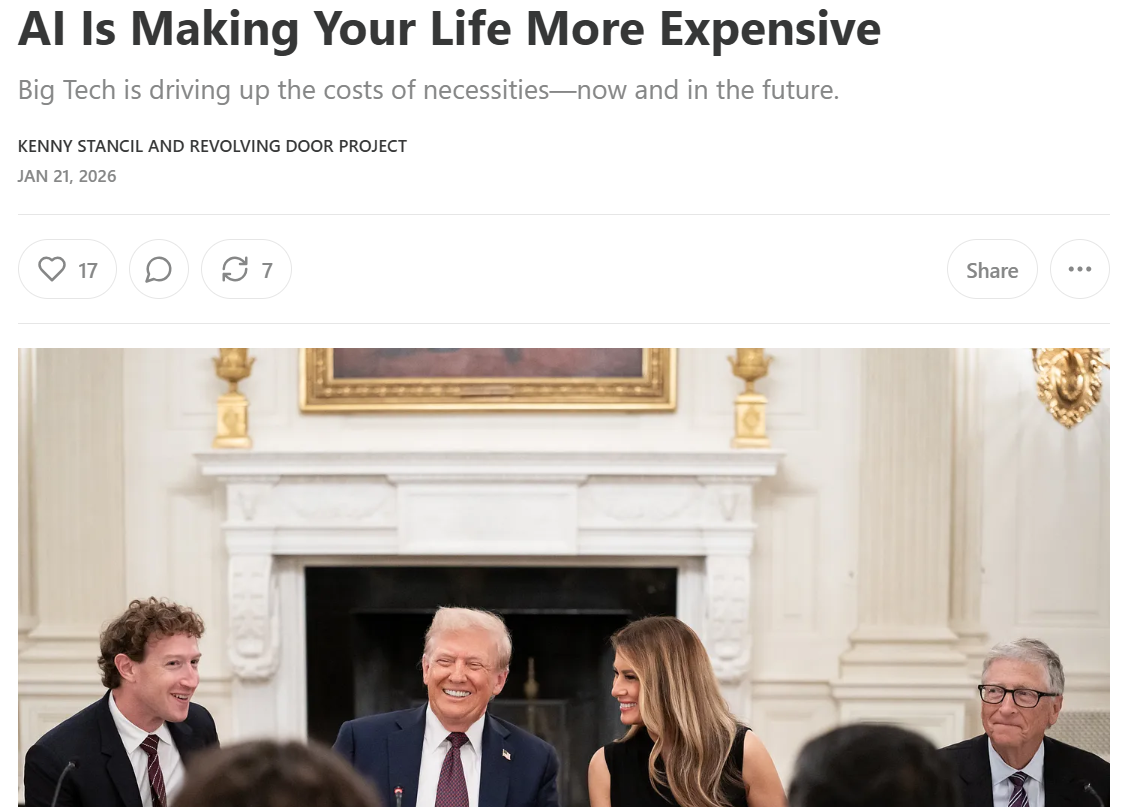
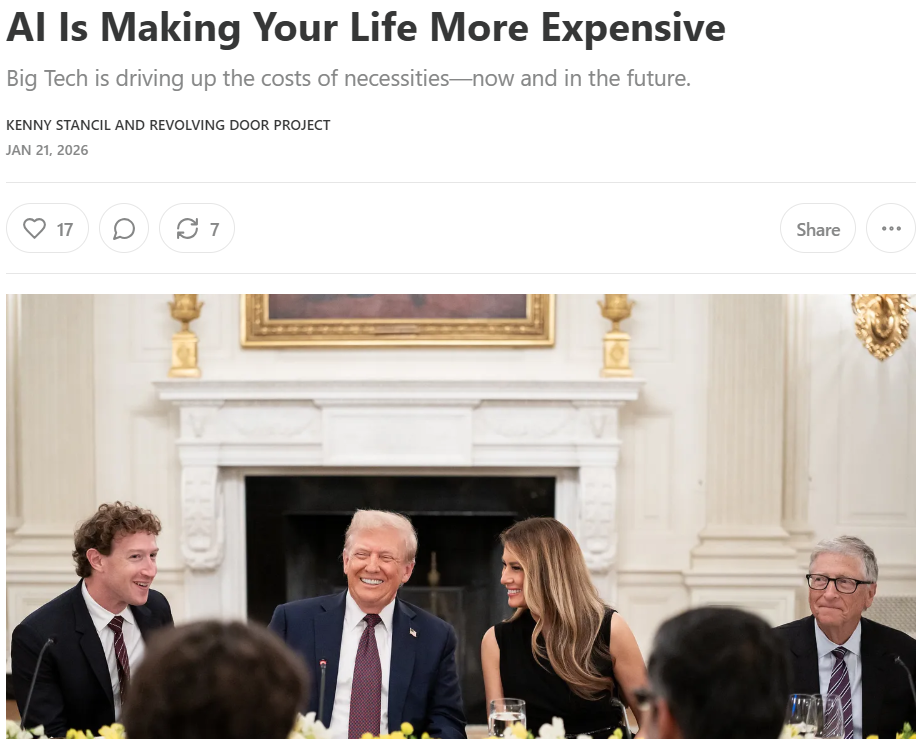
added one article

diff --git a/index.html b/index.html
@@ -393,6 +393,43 @@
               <a href="#" data-bs-toggle="modal" data-bs-target="#proj7"
                 ><img
                   class="card-img-top fit-image"
+                  src="images/tap-2-5-26.PNG"
+                  alt=""
+              /></a>
+              <div class="card-body">
+                <h4 class="card-title">DOGE Lives On Through Russell Vought</h4>
+                <p class="card-text">
+                  This co-authored article, published in The American Prospect on February 5, 2026,
+                  explains how Trump's White House OMB director has quietly institutionalized 
+                  the government demolition agenda set in motion by Elon Musk's wrecking crew.
+                </p>
+              </div>
+            </div>
+          </div>
+
+          <!-- Modal for above card. -->
+          <div class="modal fade" id="proj7" tabindex="-1" aria-labelledby="exampleModalLabel" aria-hidden="true">
+            <div class="modal-dialog modal-lg">
+              <div class="modal-content">
+                <div class="modal-header">
+                  <button type="button" class="btn-close" data-bs-dismiss="modal" aria-label="Close"></button>
+                </div>
+                <div class="modal-body">
+                  <img src="images/tap-2-5-26.PNG" class="mw-100" alt="Preview of article.">
+                  <h5>Read <a target="_blank" href ="https://prospect.org/2026/02/05/doge-russell-vought-elon-musk-office-management-budget/">article</a></h5>
+                </div>
+                <!-- <div class="modal-footer">
+                  <button type="button" class="btn btn-secondary" data-bs-dismiss="modal">Close</button>
+                </div> -->
+              </div>
+            </div>
+          </div>
+
+          <div class="col-lg-4 col-md-6 portfolio-item">
+            <div class="card h-100">
+              <a href="#" data-bs-toggle="modal" data-bs-target="#proj8"
+                ><img
+                  class="card-img-top fit-image"
                   src="images/rdp-1-21-26.PNG"
                   alt=""
               /></a>
@@ -408,7 +445,7 @@
           </div>
 
           <!-- Modal for above card. -->
-          <div class="modal fade" id="proj7" tabindex="-1" aria-labelledby="exampleModalLabel" aria-hidden="true">
+          <div class="modal fade" id="proj8" tabindex="-1" aria-labelledby="exampleModalLabel" aria-hidden="true">
             <div class="modal-dialog modal-lg">
               <div class="modal-content">
                 <div class="modal-header">
@@ -427,7 +464,7 @@
 
           <div class="col-lg-4 col-md-6 portfolio-item">
             <div class="card h-100">
-              <a href="#" data-bs-toggle="modal" data-bs-target="#proj8"
+              <a href="#" data-bs-toggle="modal" data-bs-target="#proj9"
                 ><img
                   class="card-img-top fit-image"
                   src="images/tap-1-9-26.PNG"
@@ -445,7 +482,7 @@
           </div>
 
           <!-- Modal for above card. -->
-          <div class="modal fade" id="proj8" tabindex="-1" aria-labelledby="exampleModalLabel" aria-hidden="true">
+          <div class="modal fade" id="proj9" tabindex="-1" aria-labelledby="exampleModalLabel" aria-hidden="true">
             <div class="modal-dialog modal-lg">
               <div class="modal-content">
                 <div class="modal-header">
@@ -464,7 +501,7 @@
 
           <div class="col-lg-4 col-md-6 portfolio-item">
             <div class="card h-100">
-              <a href="#" data-bs-toggle="modal" data-bs-target="#proj9"
+              <a href="#" data-bs-toggle="modal" data-bs-target="#proj10"
                 ><img
                   class="card-img-top fit-image"
                   src="images/dollars-sense-12-31-25.PNG"
@@ -484,7 +521,7 @@
           </div>
 
           <!-- Modal for above card. -->
-          <div class="modal fade" id="proj9" tabindex="-1" aria-labelledby="exampleModalLabel" aria-hidden="true">
+          <div class="modal fade" id="proj10" tabindex="-1" aria-labelledby="exampleModalLabel" aria-hidden="true">
             <div class="modal-dialog modal-lg">
               <div class="modal-content">
                 <div class="modal-header">
@@ -504,7 +541,7 @@
 
           <div class="col-lg-4 col-md-6 portfolio-item">
             <div class="card h-100">
-              <a href="#" data-bs-toggle="modal" data-bs-target="#proj10"
+              <a href="#" data-bs-toggle="modal" data-bs-target="#proj11"
                 ><img
                   class="card-img-top fit-image"
                   src="images/tap-12-5-25.PNG"
@@ -522,7 +559,7 @@
           </div>
 
           <!-- Modal for above card. -->
-          <div class="modal fade" id="proj10" tabindex="-1" aria-labelledby="exampleModalLabel" aria-hidden="true">
+          <div class="modal fade" id="proj11" tabindex="-1" aria-labelledby="exampleModalLabel" aria-hidden="true">
             <div class="modal-dialog modal-lg">
               <div class="modal-content">
                 <div class="modal-header">
@@ -541,7 +578,7 @@
 
           <div class="col-lg-4 col-md-6 portfolio-item">
             <div class="card h-100">
-              <a href="#" data-bs-toggle="modal" data-bs-target="#proj11"
+              <a href="#" data-bs-toggle="modal" data-bs-target="#proj12"
                 ><img
                   class="card-img-top fit-image"
                   src="images/lever-10-24-25.PNG"
@@ -559,7 +596,7 @@
           </div>
 
           <!-- Modal for above card. -->
-          <div class="modal fade" id="proj11" tabindex="-1" aria-labelledby="exampleModalLabel" aria-hidden="true">
+          <div class="modal fade" id="proj12" tabindex="-1" aria-labelledby="exampleModalLabel" aria-hidden="true">
             <div class="modal-dialog modal-lg">
               <div class="modal-content">
                 <div class="modal-header">
@@ -578,7 +615,7 @@
 
           <div class="col-lg-4 col-md-6 portfolio-item">
             <div class="card h-100">
-              <a href="#" data-bs-toggle="modal" data-bs-target="#proj12"
+              <a href="#" data-bs-toggle="modal" data-bs-target="#proj13"
                 ><img
                   class="card-img-top fit-image"
                   src="images/jacobin-8-13-25.PNG"
@@ -595,7 +632,7 @@
           </div>
 
           <!-- Modal for above card. -->
-          <div class="modal fade" id="proj12" tabindex="-1" aria-labelledby="exampleModalLabel" aria-hidden="true">
+          <div class="modal fade" id="proj13" tabindex="-1" aria-labelledby="exampleModalLabel" aria-hidden="true">
             <div class="modal-dialog modal-lg">
               <div class="modal-content">
                 <div class="modal-header">
@@ -614,7 +651,7 @@
 
          <div class="col-lg-4 col-md-6 portfolio-item">
             <div class="card h-100">
-              <a href="#" data-bs-toggle="modal" data-bs-target="#proj13"
+              <a href="#" data-bs-toggle="modal" data-bs-target="#proj14"
                 ><img
                   class="card-img-top fit-image"
                   src="images/tap-7-23-25.PNG"
@@ -632,7 +669,7 @@
           </div>
 
           <!-- Modal for above card. -->
-          <div class="modal fade" id="proj13" tabindex="-1" aria-labelledby="exampleModalLabel" aria-hidden="true">
+          <div class="modal fade" id="proj14" tabindex="-1" aria-labelledby="exampleModalLabel" aria-hidden="true">
             <div class="modal-dialog modal-lg">
               <div class="modal-content">
                 <div class="modal-header">
@@ -651,7 +688,7 @@
 
          <div class="col-lg-4 col-md-6 portfolio-item">
             <div class="card h-100">
-              <a href="#" data-bs-toggle="modal" data-bs-target="#proj14"
+              <a href="#" data-bs-toggle="modal" data-bs-target="#proj15"
                 ><img
                   class="card-img-top fit-image"
                   src="images/rdp-7-14-25.PNG"
@@ -668,7 +705,7 @@
           </div>
 
           <!-- Modal for above card. -->
-          <div class="modal fade" id="proj14" tabindex="-1" aria-labelledby="exampleModalLabel" aria-hidden="true">
+          <div class="modal fade" id="proj15" tabindex="-1" aria-labelledby="exampleModalLabel" aria-hidden="true">
             <div class="modal-dialog modal-lg">
               <div class="modal-content">
                 <div class="modal-header">
@@ -687,7 +724,7 @@
 
           <div class="col-lg-4 col-md-6 portfolio-item">
             <div class="card h-100">
-              <a href="#" data-bs-toggle="modal" data-bs-target="#proj15"
+              <a href="#" data-bs-toggle="modal" data-bs-target="#proj16"
                 ><img
                   class="card-img-top fit-image"
                   src="images/tap-5-9-25.PNG"
@@ -705,7 +742,7 @@
           </div>
 
           <!-- Modal for above card. -->
-          <div class="modal fade" id="proj15" tabindex="-1" aria-labelledby="exampleModalLabel" aria-hidden="true">
+          <div class="modal fade" id="proj16" tabindex="-1" aria-labelledby="exampleModalLabel" aria-hidden="true">
             <div class="modal-dialog modal-lg">
               <div class="modal-content">
                 <div class="modal-header">
@@ -724,7 +761,7 @@
 
          <div class="col-lg-4 col-md-6 portfolio-item">
             <div class="card h-100">
-              <a href="#" data-bs-toggle="modal" data-bs-target="#proj16"
+              <a href="#" data-bs-toggle="modal" data-bs-target="#proj17"
                 ><img
                   class="card-img-top fit-image"
                   src="images/tap-3-19-25.PNG"
@@ -741,7 +778,7 @@
           </div>
 
           <!-- Modal for above card. -->
-          <div class="modal fade" id="proj16" tabindex="-1" aria-labelledby="exampleModalLabel" aria-hidden="true">
+          <div class="modal fade" id="proj17" tabindex="-1" aria-labelledby="exampleModalLabel" aria-hidden="true">
             <div class="modal-dialog modal-lg">
               <div class="modal-content">
                 <div class="modal-header">
@@ -760,7 +797,7 @@
 
          <div class="col-lg-4 col-md-6 portfolio-item">
             <div class="card h-100">
-              <a href="#" data-bs-toggle="modal" data-bs-target="#proj17"
+              <a href="#" data-bs-toggle="modal" data-bs-target="#proj18"
                 ><img
                   class="card-img-top fit-image"
                   src="images/tap-2-25-25.PNG"
@@ -777,7 +814,7 @@
           </div>
 
           <!-- Modal for above card. -->
-          <div class="modal fade" id="proj17" tabindex="-1" aria-labelledby="exampleModalLabel" aria-hidden="true">
+          <div class="modal fade" id="proj18" tabindex="-1" aria-labelledby="exampleModalLabel" aria-hidden="true">
             <div class="modal-dialog modal-lg">
               <div class="modal-content">
                 <div class="modal-header">
@@ -796,7 +833,7 @@
 
          <div class="col-lg-4 col-md-6 portfolio-item">
             <div class="card h-100">
-              <a href="#" data-bs-toggle="modal" data-bs-target="#proj18"
+              <a href="#" data-bs-toggle="modal" data-bs-target="#proj19"
                 ><img
                   class="card-img-top fit-image"
                   src="images/tap-1-9-25.PNG"
@@ -813,7 +850,7 @@
           </div>
 
           <!-- Modal for above card. -->
-          <div class="modal fade" id="proj18" tabindex="-1" aria-labelledby="exampleModalLabel" aria-hidden="true">
+          <div class="modal fade" id="proj19" tabindex="-1" aria-labelledby="exampleModalLabel" aria-hidden="true">
             <div class="modal-dialog modal-lg">
               <div class="modal-content">
                 <div class="modal-header">
@@ -832,7 +869,7 @@
 
          <div class="col-lg-4 col-md-6 portfolio-item">
             <div class="card h-100">
-              <a href="#" data-bs-toggle="modal" data-bs-target="#proj19"
+              <a href="#" data-bs-toggle="modal" data-bs-target="#proj20"
                 ><img
                   class="card-img-top fit-image"
                   src="images/rs-12-18-24.PNG"
@@ -850,7 +887,7 @@
           </div>
 
           <!-- Modal for above card. -->
-          <div class="modal fade" id="proj19" tabindex="-1" aria-labelledby="exampleModalLabel" aria-hidden="true">
+          <div class="modal fade" id="proj20" tabindex="-1" aria-labelledby="exampleModalLabel" aria-hidden="true">
             <div class="modal-dialog modal-lg">
               <div class="modal-content">
                 <div class="modal-header">
@@ -869,7 +906,7 @@
 
          <div class="col-lg-4 col-md-6 portfolio-item">
             <div class="card h-100">
-              <a href="#" data-bs-toggle="modal" data-bs-target="#proj20"
+              <a href="#" data-bs-toggle="modal" data-bs-target="#proj21"
                 ><img
                   class="card-img-top fit-image"
                   src="images/tap-11-4-24.PNG"
@@ -886,7 +923,7 @@
           </div>
 
           <!-- Modal for above card. -->
-          <div class="modal fade" id="proj20" tabindex="-1" aria-labelledby="exampleModalLabel" aria-hidden="true">
+          <div class="modal fade" id="proj21" tabindex="-1" aria-labelledby="exampleModalLabel" aria-hidden="true">
             <div class="modal-dialog modal-lg">
               <div class="modal-content">
                 <div class="modal-header">
@@ -905,7 +942,7 @@
 
          <div class="col-lg-4 col-md-6 portfolio-item">
             <div class="card h-100">
-              <a href="#" data-bs-toggle="modal" data-bs-target="#proj21"
+              <a href="#" data-bs-toggle="modal" data-bs-target="#proj22"
                 ><img
                   class="card-img-top fit-image"
                   src="images/tnr-10-11-24.PNG"
@@ -923,7 +960,7 @@
           </div>
 
           <!-- Modal for above card. -->
-          <div class="modal fade" id="proj21" tabindex="-1" aria-labelledby="exampleModalLabel" aria-hidden="true">
+          <div class="modal fade" id="proj22" tabindex="-1" aria-labelledby="exampleModalLabel" aria-hidden="true">
             <div class="modal-dialog modal-lg">
               <div class="modal-content">
                 <div class="modal-header">
@@ -942,7 +979,7 @@
 
          <div class="col-lg-4 col-md-6 portfolio-item">
             <div class="card h-100">
-              <a href="#" data-bs-toggle="modal" data-bs-target="#proj22"
+              <a href="#" data-bs-toggle="modal" data-bs-target="#proj23"
                 ><img
                   class="card-img-top fit-image"
                   src="images/tap-4-16-24.PNG"
@@ -960,7 +997,7 @@
           </div>
 
           <!-- Modal for above card. -->
-          <div class="modal fade" id="proj22" tabindex="-1" aria-labelledby="exampleModalLabel" aria-hidden="true">
+          <div class="modal fade" id="proj23" tabindex="-1" aria-labelledby="exampleModalLabel" aria-hidden="true">
             <div class="modal-dialog modal-lg">
               <div class="modal-content">
                 <div class="modal-header">
@@ -979,7 +1016,7 @@
 
          <div class="col-lg-4 col-md-6 portfolio-item">
             <div class="card h-100">
-              <a href="#" data-bs-toggle="modal" data-bs-target="#proj23"
+              <a href="#" data-bs-toggle="modal" data-bs-target="#proj24"
                 ><img
                   class="card-img-top fit-image"
                   src="images/jacobin-3-27-24.PNG"
@@ -997,7 +1034,7 @@
           </div>
 
           <!-- Modal for above card. -->
-          <div class="modal fade" id="proj23" tabindex="-1" aria-labelledby="exampleModalLabel" aria-hidden="true">
+          <div class="modal fade" id="proj24" tabindex="-1" aria-labelledby="exampleModalLabel" aria-hidden="true">
             <div class="modal-dialog modal-lg">
               <div class="modal-content">
                 <div class="modal-header">
@@ -1016,7 +1053,7 @@
 
          <div class="col-lg-4 col-md-6 portfolio-item">
             <div class="card h-100">
-              <a href="#" data-bs-toggle="modal" data-bs-target="#proj24"
+              <a href="#" data-bs-toggle="modal" data-bs-target="#proj25"
                 ><img
                   class="card-img-top fit-image"
                   src="images/slate-3-25-24.PNG"
@@ -1033,7 +1070,7 @@
           </div>
 
           <!-- Modal for above card. -->
-          <div class="modal fade" id="proj24" tabindex="-1" aria-labelledby="exampleModalLabel" aria-hidden="true">
+          <div class="modal fade" id="proj25" tabindex="-1" aria-labelledby="exampleModalLabel" aria-hidden="true">
             <div class="modal-dialog modal-lg">
               <div class="modal-content">
                 <div class="modal-header">
@@ -1052,7 +1089,7 @@
 
          <div class="col-lg-4 col-md-6 portfolio-item">
             <div class="card h-100">
-              <a href="#" data-bs-toggle="modal" data-bs-target="#proj25"
+              <a href="#" data-bs-toggle="modal" data-bs-target="#proj26"
                 ><img
                   class="card-img-top fit-image"
                   src="images/tnr-2-21-24.PNG"
@@ -1069,7 +1106,7 @@
           </div>
 
           <!-- Modal for above card. -->
-          <div class="modal fade" id="proj25" tabindex="-1" aria-labelledby="exampleModalLabel" aria-hidden="true">
+          <div class="modal fade" id="proj26" tabindex="-1" aria-labelledby="exampleModalLabel" aria-hidden="true">
             <div class="modal-dialog modal-lg">
               <div class="modal-content">
                 <div class="modal-header">
@@ -1088,7 +1125,7 @@
 
          <div class="col-lg-4 col-md-6 portfolio-item">
             <div class="card h-100">
-              <a href="#" data-bs-toggle="modal" data-bs-target="#proj26"
+              <a href="#" data-bs-toggle="modal" data-bs-target="#proj27"
                 ><img
                   class="card-img-top fit-image"
                   src="images/tap-12-14-23.PNG"
@@ -1105,7 +1142,7 @@
           </div>
 
           <!-- Modal for above card. -->
-          <div class="modal fade" id="proj26" tabindex="-1" aria-labelledby="exampleModalLabel" aria-hidden="true">
+          <div class="modal fade" id="proj27" tabindex="-1" aria-labelledby="exampleModalLabel" aria-hidden="true">
             <div class="modal-dialog modal-lg">
               <div class="modal-content">
                 <div class="modal-header">
